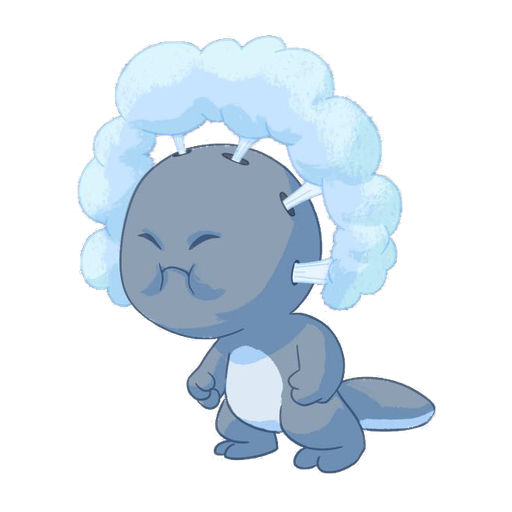
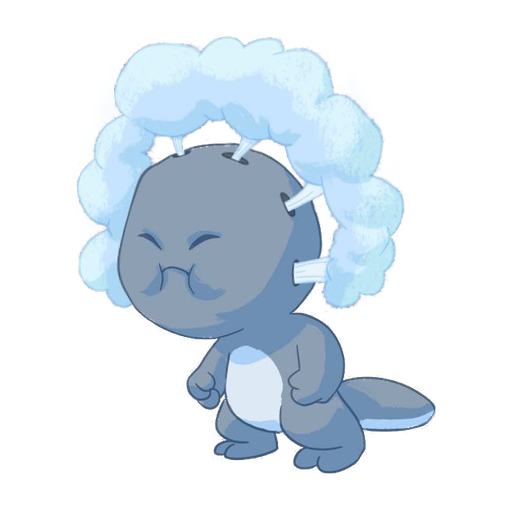
New family idles: Water loses the light crawling over its body, and Steam's cloud ring swells, churns and lets off wisps
Water now just breathes and sways its fins; ripples(), which nothing else
used, is gone from the tool.

Steam's ring is steam held under pressure: it swells out from the head with
each breath, its lobes churn and its edges billow a full turn a loop (a new
boil() warp), and short wisps of vapor curl up off the ring's outer sides,
where there's room above them, instead of a haze round the whole ring.

Dark's shadow flames become licks(), which can rise off any part of a
creature; Dark's sheet is unchanged byte for byte.

Claude-Session: https://claude.ai/code/session_01KomfhKaPpcnAtt7xZwhUMJ

diff --git a/tool/creature_idle_sheet.py b/tool/creature_idle_sheet.py
@@ -288,7 +288,7 @@ def flicker(m, body, f, where, amp=3.0, waves=3.0, lift=2.0):
 
 
 # ---------------------------------------------------------------------------
-# Light: glows, ripples, arcs
+# Light: glows and arcs
 
 
 def blur(x, sigma):
@@ -319,19 +319,6 @@ def tint(fr, mask, f, color, levels=(0.0, 0.5, 1.0, 0.5), amount=0.35, mode="scr
         fr.col = fr.col * (1 - k + color * k)
     else:
         fr.col = fr.col + (color - fr.col) * k
-
-
-def ripples(fr, mask, f, color, scale=26.0, amount=0.45, angle=0.5):
-    """Caustic light crawling across the masked parts, like light through water."""
-    x, y = fr.motion.x, fr.motion.y
-    ph = 2 * math.pi * PHASE[f]
-    ca, sa = math.cos(angle), math.sin(angle)
-    a1 = (x * ca + y * sa) / scale
-    a2 = (x * -sa + y * ca) / (scale * 1.3)
-    s = np.sin(a1 + ph) + np.sin(a2 * 1.7 - ph + np.sin(a1 * 0.6)) + 0.6 * np.sin((a1 + a2) * 1.3 + ph)
-    lines = np.clip(1.0 - np.abs(s) * 2.2, 0.0, 1.0) ** 2
-    k = (mask * lines * amount)[..., None]
-    fr.col = 1 - (1 - fr.col) * (1 - color * k)
 
 
 def motes(fr, f, pts, color, rise=(0, -60), size=4.0, grow=(1.0, 1.0), shape="soft",
@@ -396,26 +383,53 @@ def arcs(fr, f, ends, color, seed=0, width=1.2, jag=0.22, per_frame=2):
         fr.polyline(pts, width * 0.45, rgb(255, 255, 255), 1.0)
 
 
-def shadow_flames(fr, f, color, rim, reach=7.0, height=46.0, strength=0.8, waves=4.0):
-    """Tongues of shadow licking up off the creature, behind it."""
-    base = np.clip(blur(fr.alpha, reach) * 1.6, 0, 1)
+def licks(fr, f, color, rim=None, source=None, reach=7.0, height=46.0, strength=0.8,
+          waves=4.0, wobble=5.0, soft=1.6, cap=0.9, layer="behind"):
+    """Tongues licking up off the creature (or off `source`, a mask of part
+    of it): Dark's shadow flames, Steam's vapor. Each loop the tongues sway
+    and flicker one full cycle, so they never jump at the seam."""
+    src = fr.alpha if source is None else source
+    base = np.clip(blur(src, reach) * 1.6, 0, 1)
     x, y = fr.motion.x, fr.motion.y
     ph = 2 * math.pi * PHASE[f]
     acc = np.zeros_like(base)
     steps = 32
     for i in range(1, steps + 1):
         k = i / steps
-        dx = 5.0 * k * np.sin(y / FRAME * 2 * math.pi * waves + ph + 1.7 * k) + 3.0 * k * np.sin(x / 23.0 - ph)
+        dx = wobble * k * np.sin(y / FRAME * 2 * math.pi * waves + ph + 1.7 * k) + 3.0 * k * np.sin(x / 23.0 - ph)
         dy = height * k
         sx = x - dx
         sy = y + dy
         lick = 0.55 + 0.45 * np.sin(x / 17.0 + ph * 1.0 + k * 2.0)
         smp = ndi.map_coordinates(base, [sy, sx], order=1, mode="constant")
         acc = np.maximum(acc, smp * (1 - k) ** 1.3 * lick)
-    a = np.clip(blur(acc, 1.6) * strength, 0, 0.9)
-    edge = np.clip(a - np.clip(blur(a, 3.0) - 0.04, 0, 1), 0, 1)
-    fr.behind_add(color, a)
-    fr.behind_add(rim, np.clip(edge * 1.5, 0, 0.6))
+    a = np.clip(blur(acc, soft) * strength, 0, cap)
+    if layer == "behind":
+        fr.behind_add(color, a)
+    else:
+        lay = np.concatenate([color * a[..., None], a[..., None]], -1)
+        fr.front = lay + fr.front * (1 - a[..., None])
+    if rim is not None:
+        edge = np.clip(a - np.clip(blur(a, 3.0) - 0.04, 0, 1), 0, 1)
+        fr.behind_add(rim, np.clip(edge * 1.5, 0, 0.6))
+
+
+def boil(m, body, f, where, amp=2.5, scale=16.0):
+    """Churns a cloud: its lobes roll and its edges billow, a full turn a loop."""
+    ph = 2 * math.pi * PHASE[f]
+    x, y = m.x, m.y
+    dx = amp * where * np.sin(y / scale + ph + np.sin(x / (scale * 1.4)))
+    dy = amp * where * np.cos(x / scale - ph + np.sin(y / (scale * 1.2)))
+    m.shift(dx, dy)
+
+
+def swell(m, body, f, center, k=0.025, where=None):
+    """Swells a part out from `center` with the breath, like pressure building."""
+    cx, cy = center
+    g = 1 + k * SWELL[f]
+    w = 1.0 if where is None else where
+    m.sx = m.sx + w * ((cx + (m.sx - cx) / g) - m.sx)
+    m.sy = m.sy + w * ((cy + (m.sy - cy) / g) - m.sy)
 
 
 def aura(fr, f, color, levels=SWELL, reach=10.0, strength=0.6, mask=None):
@@ -664,8 +678,6 @@ def water(b, f, fr=None):
         breathe(m, b, f)
         sway(m, b, f, amp=3.5, pivot=0.42, top=0.0, wave=1.4)
         return m
-    body = fr.warp(b.mask())
-    ripples(fr, body, f, rgb(235, 252, 255), scale=20.0, amount=0.32)
 
 
 def hover(b, box):
@@ -699,13 +711,29 @@ def air(b, f, fr=None):
         return m
 
 
+def _steam_ring(b):
+    return b.mask(lum=(0.72, None), sat=(None, 0.35), box=(0, 0, 1, 0.65), soft=3)
+
+
 def steam(b, f, fr=None):
     if fr is None:
         m = Motion()
         breathe(m, b, f)
-        ring = b.mask(lum=(0.72, None), sat=(None, 0.35), box=(0, 0, 1, 0.65), soft=3)
-        sway(m, b, f, amp=4.0, pivot=0.62, top=0.0, wave=1.0, where=ring)
+        ring = _steam_ring(b)
+        # The ring is steam held under pressure: it swells with the breath,
+        # and its clouds keep churning.
+        swell(m, b, f, b.at(0.47, 0.40), k=0.03, where=ring)
+        boil(m, b, f, np.clip(ndi.gaussian_filter(ndi.grey_dilation(ring, size=(9, 9)), 3), 0, 1),
+             amp=2.6, scale=15.0)
+        sway(m, b, f, amp=3.0, pivot=0.62, top=0.0, wave=1.0, where=ring)
         return m
+    # Wisps curl up off the outer sides of the ring, where there's room above.
+    ring = fr.warp(b.mask(lum=(0.72, None), sat=(None, 0.35), box=(0, 0, 1, 0.65)))
+    above = np.clip(ring - np.roll(ring, 5, axis=0), 0, 1)
+    sides = (b.u < 0.24) | (b.u > 0.76)
+    lips = above * sides * (b.v > 0.12)
+    licks(fr, f, rgb(246, 249, 253), source=lips, reach=2.5, height=b.size(0.10),
+          strength=1.6, wobble=6.0, soft=2.0, cap=0.65)
 
 
 def lava(b, f, fr=None):
@@ -757,8 +785,8 @@ def dark(b, f, fr=None):
         sway(m, b, f, amp=4.0, pivot=0.3, top=0.0, wave=1.2)
         flap(m, b, f, b.mask(box=(0.7, 0.35, 1.0, 0.85), soft=6), amp=5.0, phase=0.25)
         return m
-    shadow_flames(fr, f, rgb(46, 18, 78), rgb(150, 90, 230), reach=3.5, height=b.size(0.15),
-                  strength=1.15)
+    licks(fr, f, rgb(46, 18, 78), rim=rgb(150, 90, 230), reach=3.5, height=b.size(0.15),
+          strength=1.15)
     collar = fr.warp(b.mask(hue=(215, 250), sat=(0.3, None), val=(0.5, None), box=(0.25, 0.6, 0.5, 0.8)))
     glow(fr, collar, f, rgb(120, 140, 255), heat=(0.02, 0.18), halo=0.5, spill=0.2, reach=0.6)
 

diff --git a/art_sources/creatures/new_family/README.md b/art_sources/creatures/new_family/README.md
@@ -25,10 +25,10 @@ Every motion runs one full cycle in the four frames, so the loop has no seam.
 | Crystal | Crystals glow violet |
 | Plant | A breath; the leaves on its head sway |
 | Fire | Flames flicker and glow; embers rise off the head and tail |
-| Water | Light ripples through the body; the fins sway |
+| Water | A breath; the fins sway |
 | Earth | A heavy breath; its stones float off it; the eyes smoulder |
 | Air | Floats and flaps its cloud wings |
-| Steam | A breath; the cloud ring billows |
+| Steam | Its cloud ring swells with the breath and churns; wisps curl up off its sides |
 | Lava | The cracks and eyes glow; embers rise off the peaks |
 | Poison | Spike tips and eyes glow; it drools |
 | Spirit | Floats, flickering translucent; its wisps sway; the eyes glow |
